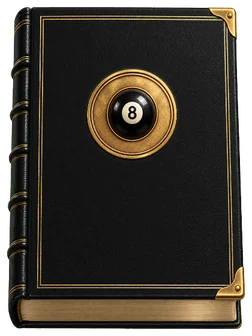
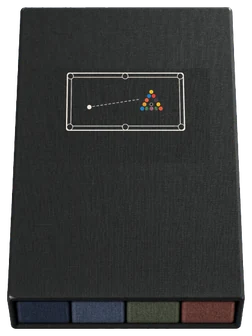
Lesson books redone: modern clothbound slipcases and hardbacks, titles in plain ivory
Claude-Session: https://claude.ai/code/session_01DzxiQebW6t4iT9hZUZYbBt

diff --git a/web/head.html b/web/head.html
@@ -1167,7 +1167,7 @@ button:focus-visible,input:focus-visible{outline:2px solid var(--acc);outline-of
   box-shadow:inset 0 0 0 2px rgba(233,207,138,.35),inset -3px 0 0 rgba(255,255,255,.08),-5px 7px 8px rgba(0,0,0,.5)}
 #app.desk .dk-card.book .cover.c0{--lc:#1c3a6e}#app.desk .dk-card.book .cover.c1{--lc:#6e1c24}#app.desk .dk-card.book .cover.c2{--lc:#1d5a3a}#app.desk .dk-card.book .cover.c3{--lc:#4a2f1c}
 #app.desk .dk-card.book .cover small{font:700 10.5px 'Gothic A1',sans-serif;letter-spacing:.12em;opacity:.85}
-#app.desk .dk-card.book .cover b{font:800 17px/1.25 'Gothic A1',sans-serif;color:#f1d993;text-shadow:0 1px 0 rgba(0,0,0,.5)}
+#app.desk .dk-card.book .cover b{font:800 17px/1.25 'Gothic A1',sans-serif;color:#f4efe6;text-shadow:0 1px 1px rgba(0,0,0,.45)}
 #app.desk .dk-card.book .cover em{position:absolute;bottom:8px;font:700 12px 'Outfit',sans-serif;font-style:normal;opacity:.7}
 #app.desk .dk-card.book.done .cover{box-shadow:inset 0 0 0 3px #e3c066,inset 0 0 0 5px rgba(0,0,0,.25),-5px 7px 8px rgba(0,0,0,.5)}
 #app.desk .dk-card.book .lvl{display:flex;gap:4px}
@@ -1281,8 +1281,8 @@ button:focus-visible,input:focus-visible{outline:2px solid var(--acc);outline-of
   background:center/100% 100% no-repeat;box-shadow:none;filter:drop-shadow(-6px 9px 8px rgba(0,0,0,.5))}
 #app.desk .dk-card.vol .tome::before,#app.desk .dk-card.vol .tome::after{display:none}
 #app.desk .dk-card.vol .tome .tt{position:absolute;left:17%;right:14%;top:56%;height:28%;display:flex;flex-direction:column;align-items:center;justify-content:center;gap:4px}
-#app.desk .dk-card.vol .tome b{font:900 clamp(16px,2.6vw,30px) 'Gothic A1',sans-serif;color:#f1d993;text-shadow:0 1px 0 rgba(0,0,0,.6),0 0 6px rgba(0,0,0,.4)}
-#app.desk .dk-card.vol .tome small{font:700 11px 'Gothic A1',sans-serif;letter-spacing:.45em;color:#e9cf8a;opacity:.85}
+#app.desk .dk-card.vol .tome b{font:900 clamp(16px,2.6vw,30px) 'Gothic A1',sans-serif;color:#f4efe6;text-shadow:0 1px 1px rgba(0,0,0,.45)}
+#app.desk .dk-card.vol .tome small{font:700 11px 'Gothic A1',sans-serif;letter-spacing:.45em;color:#f4efe6;opacity:.75}
 #app.desk .dk-card.vol.empty .tome{filter:saturate(.6) brightness(.82) drop-shadow(-6px 9px 8px rgba(0,0,0,.5))}
 #app.desk .dk-card.book .cover{aspect-ratio:360/480;height:auto;max-height:100%;width:auto;max-width:100%;flex:1;min-height:0;padding:0;border-radius:0;box-shadow:none;
   background:center/100% 100% no-repeat;filter:drop-shadow(-4px 6px 5px rgba(0,0,0,.5));position:relative;display:block}
